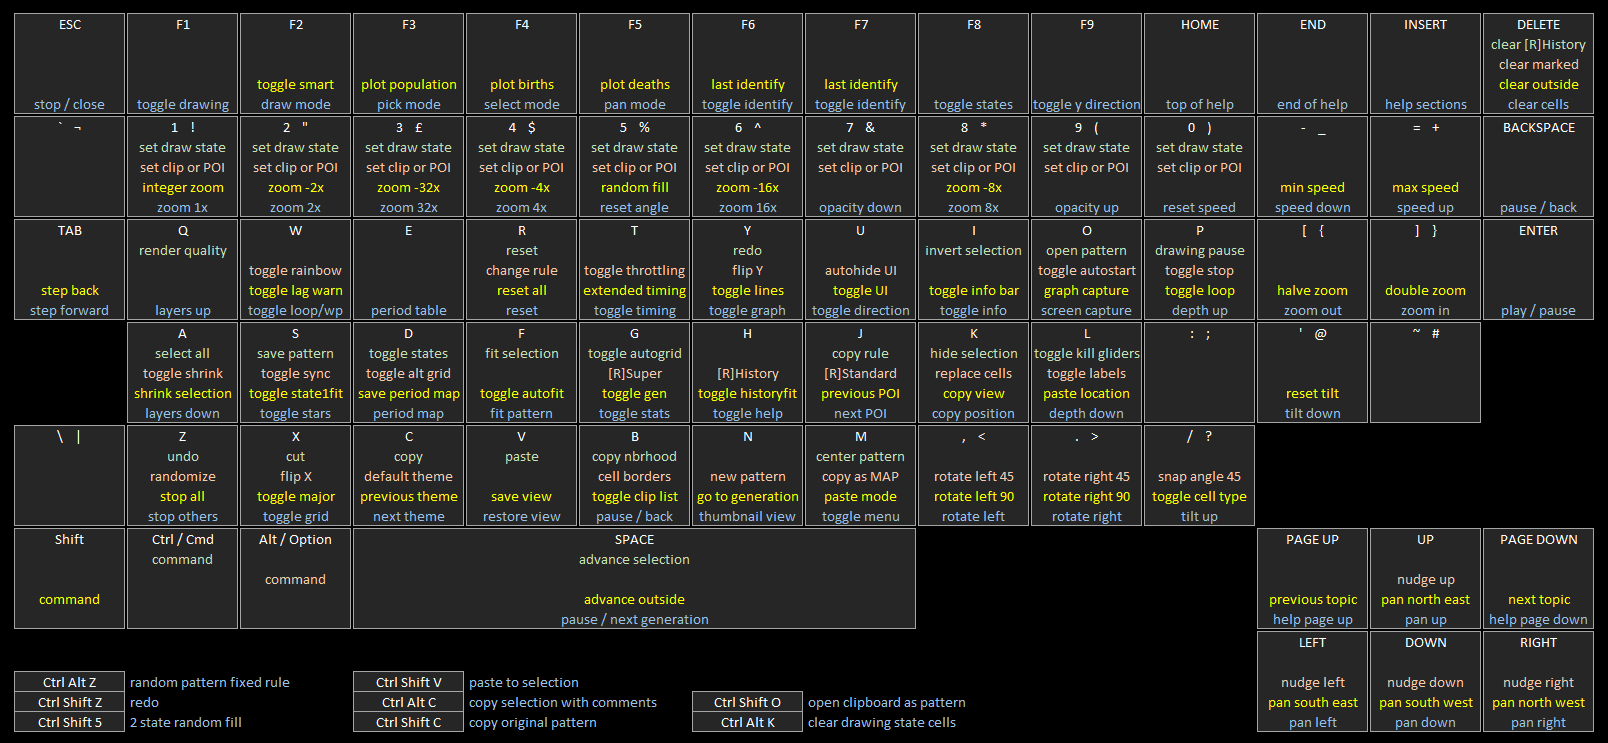
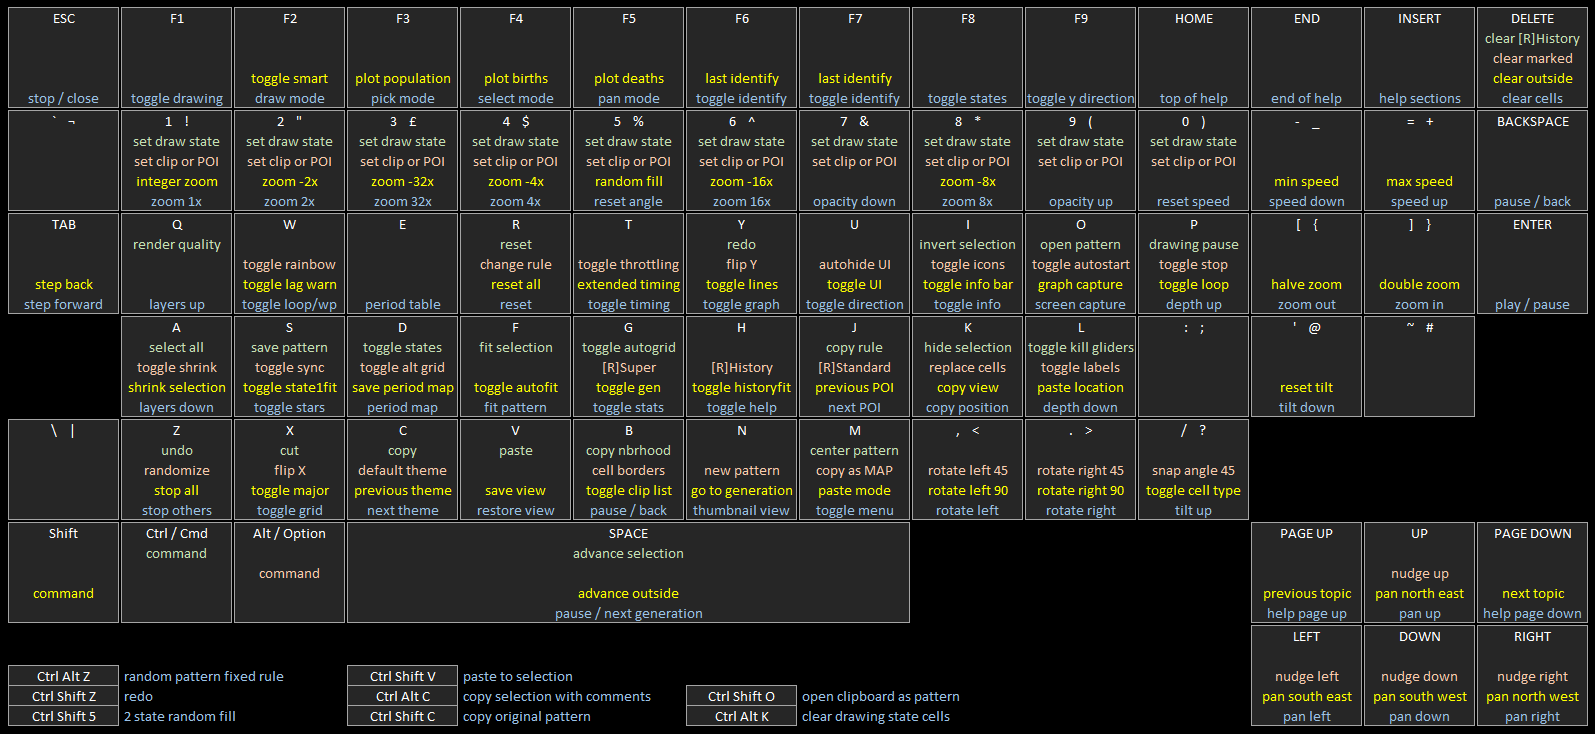
Identify now uses offset square grid for hexagonal Cell Period Maps

diff --git a/js/life.js b/js/life.js
@@ -440,7 +440,7 @@ This file is part of LifeViewer
 		/** @type {HTMLCanvasElement} */ this.cellPeriodCanvas = /** @type {!HTMLCanvasElement} */ (document.createElement("canvas"));
 		this.cellPeriodCanvas.width = 1;
 		this.cellPeriodCanvas.height = 1;
-		/** @type {CanvasRenderingContext2D} */ this.cellPeriodContext = /** @type {!CanvasRenderingContext2D} */ (this.cellPeriodCanvas.getContext("2d"));
+		/** @type {CanvasRenderingContext2D} */ this.cellPeriodContext = /** @type {!CanvasRenderingContext2D} */ (this.cellPeriodCanvas.getContext("2d", {"willReadFrequently": true}));
 		/** @type {Array<number>} */ this.cellPeriodRGB = [];
 		/** @type {number} */ this.cellPeriodNumCols = 0;
 		/** @type {number} */ this.cellPeriodCellSize = 8;
@@ -2768,7 +2768,12 @@ This file is part of LifeViewer
 			/** @type {number} */ displayScale = this.view.viewMenu.xScale,
 			/** @type {number} */ legendWidth = 50,
 			/** @type {number} */ width = this.displayWidth - (displayScale * (legendWidth + legendWidth + 20)),
-			/** @type {number} */ height = this.displayHeight - (displayScale * 90);
+			/** @type {number} */ height = this.displayHeight - (displayScale * 90),
+			/** @type {number} */ offset = 0,
+			/** @type {number} */ inc = 0,
+			/** @type {number} */ minX = 0,
+			/** @type {number} */ maxX = 0,
+			/** @type {number} */ xPos = 0;
 
 		// adjust the colours based on endian
 		if (!this.littleEndian) {
@@ -2855,8 +2860,6 @@ This file is part of LifeViewer
 		// resize the image and canvas to fix the period map with "cellSize" cells
 		rowWidth = cellSize * (this.cellPeriodWidth + cellBorderSize + cellBorderSize) + gridBorderSize;
 		colHeight = cellSize * (this.cellPeriodHeight + cellBorderSize + cellBorderSize) + gridBorderSize;
-		//this.cellPeriodImage.width = rowWidth;
-		//this.cellPeriodImage.height = colHeight;
 		this.cellPeriodCanvas.width = rowWidth;
 		this.cellPeriodCanvas.height = colHeight;
 
@@ -2868,18 +2871,50 @@ This file is part of LifeViewer
 		data = this.cellPeriodContext.getImageData(0, 0, this.cellPeriodCanvas.width, this.cellPeriodCanvas.height);
 		data32 = new Uint32Array(data.data.buffer);
 
+		// check for hex cells
+		if (this.isHex) {
+			// calculate the bounding box once hexagonal offset has been applied
+			inc = -0.5;
+			offset = this.cellPeriodHeight >> 2;
+
+			minX = this.cellPeriodWidth;
+			maxX = -1;
+
+			for (y = 0; y < this.cellPeriodHeight; y += 1) {
+				for (x = 0; x < this.cellPeriodWidth; x += 1) {
+					p = this.cellPeriod[y * this.cellPeriodWidth + x];
+					if (p > 0) {
+						cx = x + offset;
+						if (cx < minX) {
+							minX = cx;
+						}
+						if (cx > maxX) {
+							maxX = cx;
+						}
+					}
+				}
+				offset += inc;
+			}
+
+			// set the offset for drawing using the minx and maxx to center the image
+			inc = -cellSize / 2;
+			offset = (this.cellPeriodHeight >> 2) * cellSize;
+			offset += (((this.cellPeriodWidth - maxX - minX)) >> 1) * cellSize;
+		}
+
 		// draw the cells
 		for (y = 0; y < this.cellPeriodHeight; y += 1) {
 			for (x = 0; x < this.cellPeriodWidth; x += 1) {
 				p = this.cellPeriod[y * this.cellPeriodWidth + x];
 				pixCol = this.cellPeriodRGB[p];
 				for (cy = 0; cy < cellSize; cy += 1) {
-					row = ((y + cellBorderSize) * cellSize + cy) * rowWidth + ((x + cellBorderSize) * cellSize);
+					row = ((y + cellBorderSize) * cellSize + cy) * rowWidth + ((x + cellBorderSize) * cellSize) + offset;
 					for (cx = 0; cx < cellSize; cx += 1) {
-						data32[row + cx] = pixCol;
+						data32[(row + cx) | 0] = pixCol;
 					}
 				}
 			}
+			offset += inc;
 		}
 
 		// draw the bounded grid if required
@@ -2914,6 +2949,7 @@ This file is part of LifeViewer
 
 		// draw the grid if required
 		if (drawGrid) {
+			// draw the grid
 			for (y = -1; y <= this.cellPeriodHeight + 1; y += 1) {
 				row = ((y + cellBorderSize) * cellSize) * rowWidth;
 				for (x = 0; x < (this.cellPeriodWidth + cellBorderSize + cellBorderSize) * cellSize + 1; x += 1) {
@@ -2923,7 +2959,15 @@ This file is part of LifeViewer
 
 			for (x = -1; x <= this.cellPeriodWidth + 1; x += 1) {
 				for (y = 0; y < (this.cellPeriodHeight + cellBorderSize + cellBorderSize) * cellSize; y += 1) {
-					data32[(y * rowWidth) + ((x + cellBorderSize) * cellSize)] = gridCol;
+					if (((y / cellSize) & 1) === 0) {
+						offset = inc;
+					} else {
+						offset = 0;
+					}
+					xPos = ((x + cellBorderSize) * cellSize) + offset;
+					if (xPos >= 0 && xPos < this.cellPeriodCanvas.width) {
+						data32[(y * rowWidth) + xPos] = gridCol;
+					}
 				}
 			}
 		} else {
@@ -2967,7 +3011,6 @@ This file is part of LifeViewer
 
 		// update the image
 		this.cellPeriodContext.putImageData(data, 0, 0);
-		//this.cellPeriodImage.src = this.cellPeriodCanvas.toDataURL("image/png");
 
 		// create the table row values for page up and page down
 		view.setResultsPosition();
@@ -3205,8 +3248,6 @@ This file is part of LifeViewer
 		}
 
 		// recompute size based on scale factor
-		//x = this.cellPeriodImage.width * s;
-		//y = this.cellPeriodImage.height * s;
 		x = this.cellPeriodCanvas.width * s;
 		y = this.cellPeriodCanvas.height * s;
 

diff --git a/js/help.js b/js/help.js
@@ -909,6 +909,7 @@ This file is part of LifeViewer
 		y = this.renderHelpLine(view, "Shift T", "toggle extended timing information", ctx, x, y, height, helpLine);
 		y = this.renderHelpLine(view, "I", "toggle pattern and engine information", ctx, x, y, height, helpLine);
 		y = this.renderHelpLine(view, "Shift I", "toggle information bar", ctx, x, y, height, helpLine);
+		y = this.renderHelpLine(view, view.altKeyText + " I", "toggle icons", ctx, x, y, height, helpLine);
 		y = this.renderHelpLine(view, view.controlKeyText + " Q", "toggle cell anti-aliasing", ctx, x, y, height, helpLine);
 		y = this.renderHelpLine(view, view.altKeyText + " B", "toggle cell borders", ctx, x, y, height, helpLine);
 		y = this.renderHelpLine(view, "X", "toggle gridlines", ctx, x, y, height, helpLine);

diff --git a/js/lifeview.js b/js/lifeview.js
@@ -327,7 +327,7 @@ This file is part of LifeViewer
 		/** @const {string} */ externalViewerTitle : "LifeViewer",
 
 		// build version
-		/** @const {number} */ versionBuild : 1154,
+		/** @const {number} */ versionBuild : 1156,
 
 		// standard edition name
 		/** @const {string} */ standardEdition : "Standard",
@@ -8177,6 +8177,7 @@ This file is part of LifeViewer
 			// clear the canvas
 			if (me.engine.data32) {
 				me.engine.data32.fill(pixelColour);
+				me.engine.doDrawGrid = true;
 			}
 		}
 
